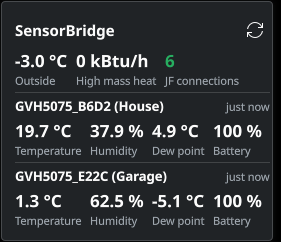
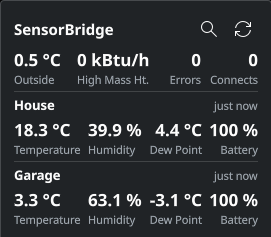
docs: refresh widget screenshots in READMEs

diff --git a/plasma-widget/README.md b/plasma-widget/README.md
@@ -93,7 +93,13 @@ purpose and the widget reads them from the file.
 
 Right-click the widget and choose **Configure** to change the settings. A
 change applies immediately and is saved back to `~/.config/sensorbridge`, so it
-survives a restart even if the applet is removed and re-added:
+survives a restart even if the applet is removed and re-added. The dialog
+scrolls; both parts are shown here:
+
+<p align="center">
+  <img src="../docs/screenshots/widget-configurator1.png" width="360" alt="Widget Configure dialog (1 of 2)">
+  <img src="../docs/screenshots/widget-configurator2.png" width="360" alt="Widget Configure dialog (2 of 2)">
+</p>
 
 | Setting | Default | Notes |
 | --- | --- | --- |

diff --git a/README.md b/README.md
@@ -117,6 +117,13 @@ source directory. The reinstall removes the placed widget, so add
 **SensorBridge** again from the widget chooser and log out and back in to load
 the new files. Its settings stay in `~/.config/sensorbridge`.
 
+The Configure dialog scrolls; both parts are shown here:
+
+<p align="center">
+  <img src="docs/screenshots/widget-configurator1.png" width="260" alt="Widget Configure dialog (1 of 2)">
+  <img src="docs/screenshots/widget-configurator2.png" width="260" alt="Widget Configure dialog (2 of 2)">
+</p>
+
 ### How the widget gets its data
 
 The widget reads from **Grafana's `/api/ds/query` API**, not from the app, the
